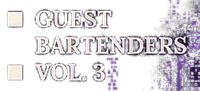
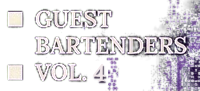
Change flyer to vol. 4
Claude-Session: https://claude.ai/code/session_01W39ENh5ZvMw2zYmBiJhKEg

Changed region(s): [[0.45, 0.6593, 0.54, 0.9231]]

diff --git a/aura-flyer/index.html b/aura-flyer/index.html
@@ -159,7 +159,7 @@ body{display:grid;place-items:center}
   <div class="l title" style="--d:1.62s;left:124px;top:312px;width:502px;height:106px"><img src="layers/l2.png" alt="Copeo"><i class="shine" style="--m:url(layers/l2.png)"></i></div>
   <div class="l title" style="--d:1.79s;left:82px;top:422px;width:594px;height:118px"><img src="layers/l3.png" alt="de autor."><i class="shine" style="--m:url(layers/l3.png)"></i></div>
 
-  <div id="guest" class="l mask" style="left:89px;top:551px;width:200px;height:91px"><img src="layers/guest.png" alt="Guest bartenders vol. 3"></div>
+  <div id="guest" class="l mask" style="left:89px;top:551px;width:200px;height:91px"><img src="layers/guest.png" alt="Guest bartenders vol. 4"></div>
   <div id="bglow" class="l"></div>
   <div id="badge" class="l" style="left:494px;top:552px;width:174px;height:58px"><img src="layers/badge.png" alt="20:00 hs."></div>
 
@@ -172,7 +172,7 @@ body{display:grid;place-items:center}
 
   <div id="n1" class="l name" data-d="3.75"><span class="ln"><span>LUCAS</span></span><span class="ln"><span>LLARUL</span></span></div>
   <div id="n2" class="l name" data-d="3.9"><span class="ln"><span>SANTI</span></span><span class="ln"><span>GIMÉNEZ</span></span></div>
-  <div id="sub" class="l">INVITADOS ESPECIALES • VOL. 3</div>
+  <div id="sub" class="l">INVITADOS ESPECIALES • VOL. 4</div>
 
   <div id="divider" class="l"></div>
   <div class="l sp" style="left:91px;top:1208px;width:118px;height:114px"><img src="layers/s1.png" alt="Fernet Branca"></div>
